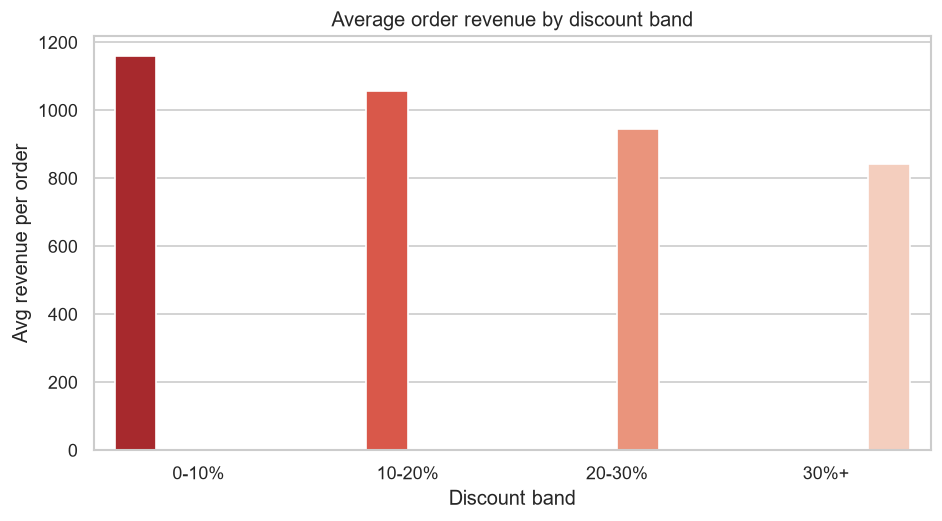
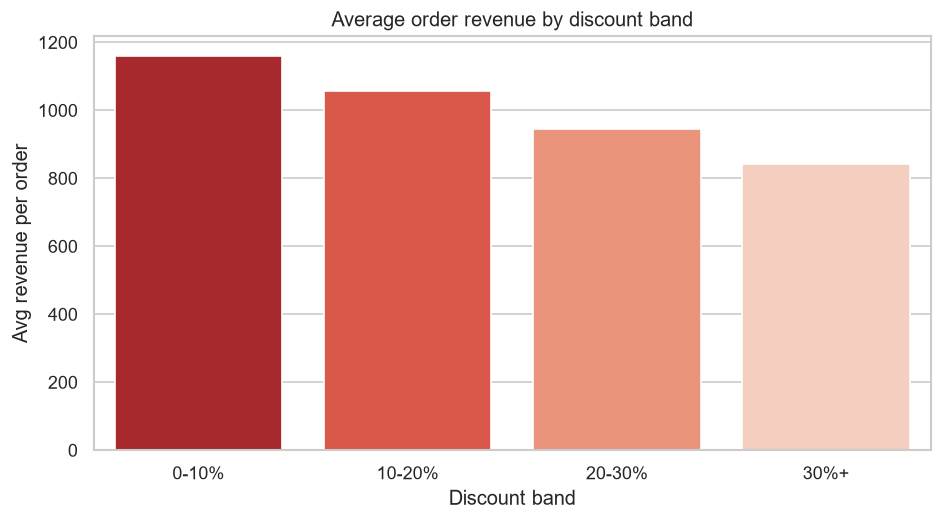
Refactor figure script to use shared analysis helpers; add top-customers chart

diff --git a/scripts/generate_figures.py b/scripts/generate_figures.py
@@ -3,85 +3,99 @@
 Run with:  uv run python scripts/generate_figures.py
 
 Reads the cleaned dataset from data/processed/ and writes PNGs to assets/.
+All aggregation logic lives in ``dataanalyst.analysis`` so figures and notebooks
+stay in sync.
 """
 
 from __future__ import annotations
-
-from pathlib import Path
 
 import matplotlib
 
 matplotlib.use("Agg")  # headless: save files, don't open windows
 
 import matplotlib.pyplot as plt
-import pandas as pd
 import seaborn as sns
 
+from dataanalyst.analysis import (
+    avg_revenue_by_discount,
+    delivery_band,
+    revenue_by,
+    revenue_pivot,
+    top_customers,
+)
 from dataanalyst.data import load_processed
-from dataanalyst.paths import PROJECT_ROOT
+from dataanalyst.paths import ASSETS_DIR
 
-ASSETS = PROJECT_ROOT / "assets"
-ASSETS.mkdir(exist_ok=True)
+NUMERIC_COLS = ["quantity", "unit_price", "discount", "delivery_days", "customer_rating", "revenue"]
 
 sns.set_theme(style="whitegrid")
 
 
 def _save(fig: plt.Figure, name: str) -> None:
     fig.tight_layout()
-    fig.savefig(ASSETS / name, dpi=120, bbox_inches="tight")
+    fig.savefig(ASSETS_DIR / name, dpi=120, bbox_inches="tight")
     plt.close(fig)
-    print("wrote", ASSETS / name)
+    print("wrote", ASSETS_DIR / name)
+
+
+def _barh(series, title: str, xlabel: str, palette: str) -> plt.Figure:
+    """Horizontal bar chart of a Series (index on the y-axis)."""
+    fig, ax = plt.subplots(figsize=(8, 4.5))
+    labels = series.index.astype(str)
+    sns.barplot(x=series.values, y=labels, ax=ax, palette=palette, hue=labels, legend=False)
+    ax.set_title(title)
+    ax.set_xlabel(xlabel)
+    ax.set_ylabel("")
+    return fig
 
 
 def main() -> None:
+    ASSETS_DIR.mkdir(exist_ok=True)
     df = load_processed("ecommerce_clean.parquet")
 
     # 1. Revenue by product category
-    rev_cat = df.groupby("product_category")["revenue"].sum().sort_values(ascending=False)
-    fig, ax = plt.subplots(figsize=(8, 4.5))
-    sns.barplot(x=rev_cat.values, y=rev_cat.index, ax=ax, palette="Blues_r", hue=rev_cat.index,
-                legend=False)
-    ax.set_title("Total revenue by product category")
-    ax.set_xlabel("Revenue")
-    ax.set_ylabel("")
-    _save(fig, "revenue_by_category.png")
+    _save(
+        _barh(revenue_by(df, "product_category"), "Total revenue by product category",
+              "Revenue", "Blues_r"),
+        "revenue_by_category.png",
+    )
 
     # 2. Revenue by category x region
-    pivot = df.pivot_table(index="product_category", columns="region", values="revenue",
-                           aggfunc="sum")
     fig, ax = plt.subplots(figsize=(8, 5))
-    sns.heatmap(pivot, annot=True, fmt=",.0f", cmap="YlGnBu", ax=ax)
+    sns.heatmap(revenue_pivot(df), annot=True, fmt=",.0f", cmap="YlGnBu", ax=ax)
     ax.set_title("Total revenue by category and region")
     _save(fig, "revenue_category_region.png")
 
     # 3. Average order revenue by discount band
-    df["discount_band"] = pd.cut(df["discount"], bins=[-0.001, 0.1, 0.2, 0.3, 1.0],
-                                 labels=["0-10%", "10-20%", "20-30%", "30%+"])
-    avg_disc = df.groupby("discount_band", observed=True)["revenue"].mean()
+    avg_disc = avg_revenue_by_discount(df)
     fig, ax = plt.subplots(figsize=(8, 4.5))
-    sns.barplot(x=avg_disc.index, y=avg_disc.values, ax=ax, palette="Reds_r",
-                hue=avg_disc.index, legend=False)
+    sns.barplot(x=avg_disc.index.astype(str), y=avg_disc.values, ax=ax, palette="Reds_r",
+                hue=avg_disc.index.astype(str), legend=False)
     ax.set_title("Average order revenue by discount band")
     ax.set_xlabel("Discount band")
     ax.set_ylabel("Avg revenue per order")
     _save(fig, "avg_revenue_by_discount.png")
 
     # 4. Correlation heatmap
-    numeric = df[["quantity", "unit_price", "discount", "delivery_days",
-                  "customer_rating", "revenue"]]
     fig, ax = plt.subplots(figsize=(7, 5.5))
-    sns.heatmap(numeric.corr(), annot=True, fmt=".2f", cmap="coolwarm", center=0, ax=ax)
+    sns.heatmap(df[NUMERIC_COLS].corr(), annot=True, fmt=".2f", cmap="coolwarm", center=0, ax=ax)
     ax.set_title("Correlation between numeric features")
     _save(fig, "correlation_heatmap.png")
 
     # 5. Customer rating by delivery band
-    df["delivery_band"] = pd.cut(df["delivery_days"], bins=[0, 3, 6, 9, df["delivery_days"].max()])
     fig, ax = plt.subplots(figsize=(8, 4.5))
-    sns.boxplot(data=df, x="delivery_band", y="customer_rating", ax=ax)
+    sns.boxplot(x=delivery_band(df), y=df["customer_rating"], ax=ax)
     ax.set_title("Customer rating by delivery-time band")
     ax.set_xlabel("Delivery days")
     ax.set_ylabel("Customer rating")
     _save(fig, "rating_by_delivery.png")
+
+    # 6. Top 10 customers by revenue
+    top = top_customers(df)
+    _save(
+        _barh(top, "Top 10 customers by total revenue", "Total revenue", "Greens_r"),
+        "top_customers.png",
+    )
 
 
 if __name__ == "__main__":
